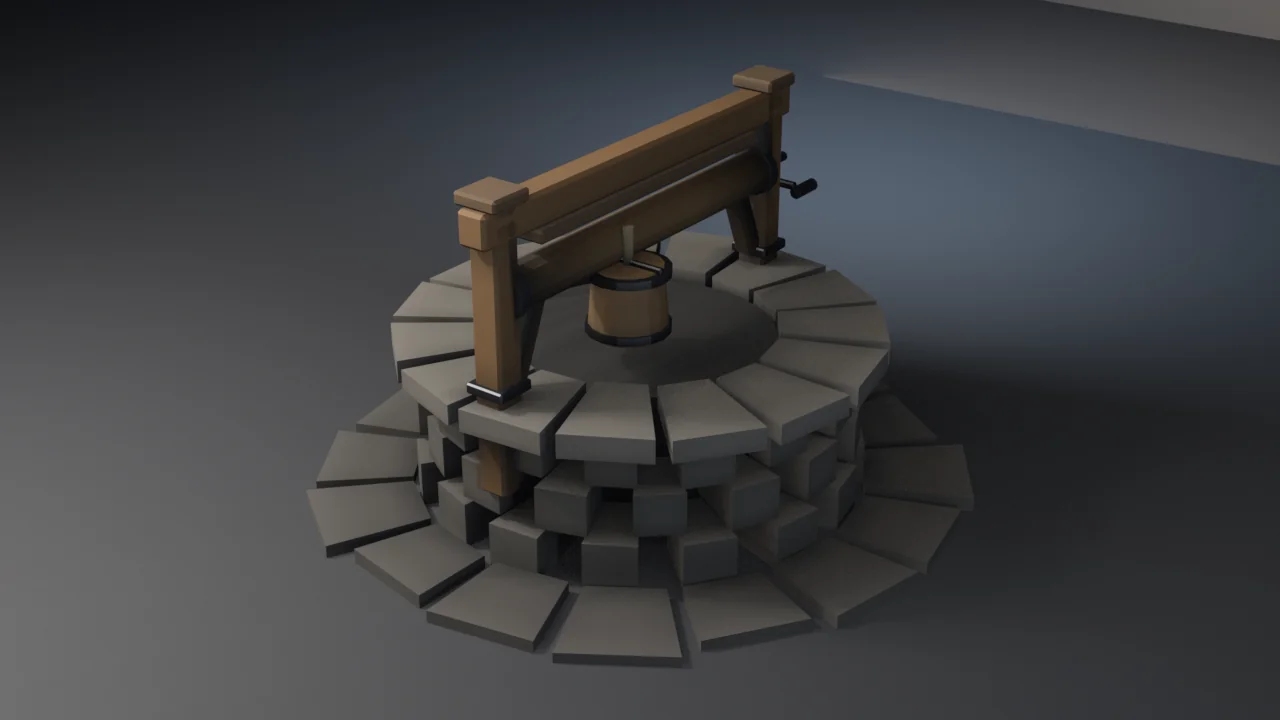
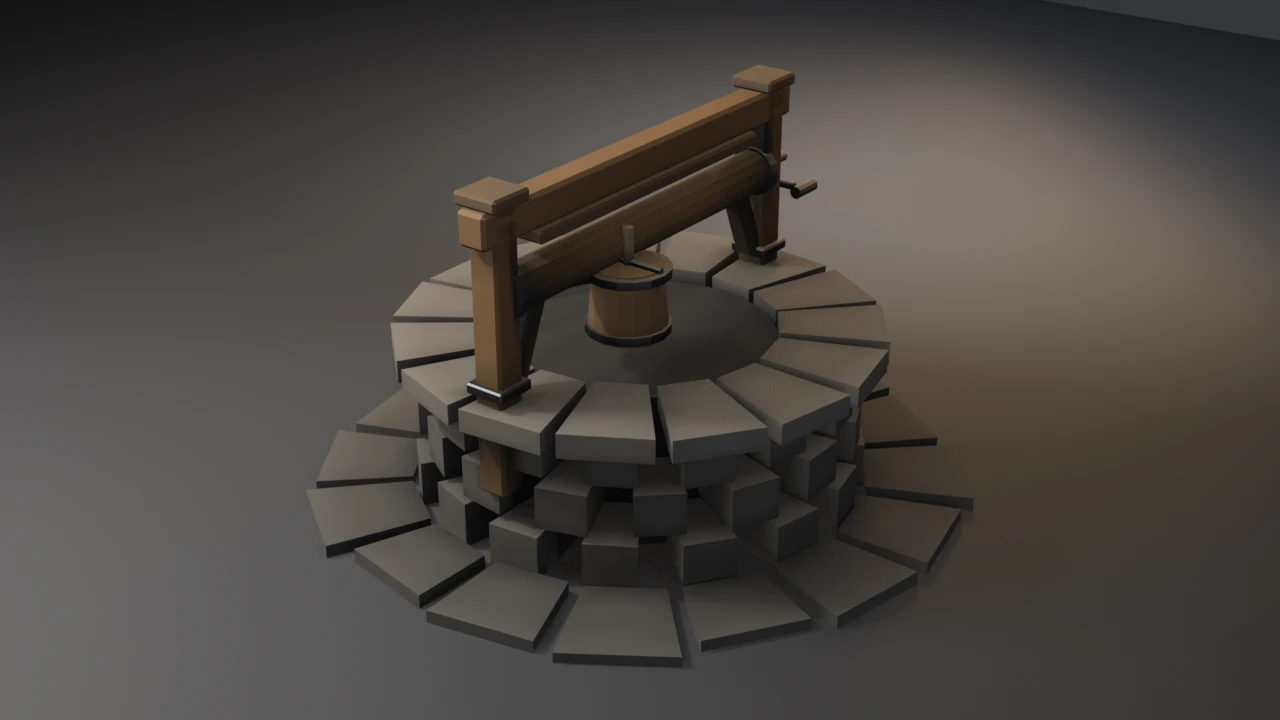
fix(examples): warm the vertex-color-ao stage and aim its wedge
Render path only. The blue fill and rim lit the stage cold and the wedge
grazed floor the camera barely saw; the rig is now near neutral with the
wedge pooled behind the well. Bake, checks and exit codes unchanged.

Changed region(s): [[0.4062, 0.0917, 1.0, 0.7944], [0.9062, 0.0917, 1.0, 0.2444], [0.8125, 0.0, 1.0, 0.0611]]

diff --git a/docs/gallery/vertex-color-ao/index.html b/docs/gallery/vertex-color-ao/index.html
@@ -292,6 +292,7 @@
 <p>The exit-7 probe earned its keep twice: the depsgraph check originally compared <code>zip(src.data, eva.data)</code>, which stops at the shorter sequence, so a resampled attribute reported a clean <strong>0.0</strong> deviation and the probe exited <strong>0</strong>. The length guard was added because the falsification pass failed to fail.</p>
 <p><strong>Version witness:</strong> check output is byte-identical on Blender 4.5.11 LTS and 5.1.2 — same 6966 vertices, same closed-form errors to every printed digit, same storage deviations.</p>
 <p><strong>Render as proof:</strong> the well on the dark stage, lit only by the studio rig, with the baked AO multiplied into base colour — the masonry joints, the shaft mouth, the coping undersides and the apron contact all darken from the attribute, not from the lights. The falsification variant (<code>--falsify</code>) writes the same bake <strong>inverted</strong>: sky-facing coping and apron tops go grimy while the recesses and post bases glow, occlusion turned inside out.</p>
+<p>The studio rig is presentation only. Its fill and rim used to be strongly blue, which lit the whole stage cold (stage luma 0.243, warmth +0.01 against the calibration set). Its wedge grazed floor the camera barely saw and left a hard-edged patch on the back wall. Both are now near neutral, and the wedge pools warm light on the floor just behind the well from the camera&#x27;s side: luma 0.274, warmth +0.023. The bake, the checks and the exit codes are unchanged.</p>
 <h2>Run</h2>
 <pre><code>blender --background --python vertex_color_ao.py --
 blender --background --python vertex_color_ao.py -- --output well.png
@@ -400,6 +401,8 @@ FLOAT_TOL = <span class="n">1e-6</span>           <span class="c"># FLOAT_COLOR 
 BYTE_MODEL_TOL = <span class="n">1e-6</span>      <span class="c"># agreement with the independent sRGB model</span>
 SPREAD_MIN = <span class="n">0.25</span>          <span class="c"># the asset must actually use its AO range</span>
 EXPECT_PARTS = <span class="n">11</span>          <span class="c"># asserted before any per-part loop runs (check 0)</span>
+WEDGE_AT = (-<span class="n">0.9</span>, <span class="n">3.4</span>, <span class="n">2.0</span>)    <span class="c"># render only: warm wedge position</span>
+WEDGE_POOL = (-<span class="n">1.8</span>, <span class="n">2.2</span>, <span class="n">0.0</span>)  <span class="c"># render only: floor point the wedge pools on</span>
 
 
 <span class="k">def</span> eevee_engine_id():
@@ -1149,11 +1152,20 @@ _mat_cache = {}
         ob.rotation_euler = tuple(math.radians(a) <span class="k">for</span> a <span class="k">in</span> rot)
         sc.collection.objects.link(ob)
 
-    <span class="c"># VISUAL-STYLE Layer 2 rig, energies scaled to a ~1.9 m subject</span>
-    light(<span class="s">&quot;Key&quot;</span>, (-<span class="n">2.3</span>, -<span class="n">2.4</span>, <span class="n">3.6</span>), <span class="n">430.0</span>, <span class="n">3.0</span>, (<span class="n">1.0</span>, <span class="n">0.96</span>, <span class="n">0.9</span>), (<span class="n">40</span>, <span class="n">0</span>, -<span class="n">42</span>))
-    light(<span class="s">&quot;Fill&quot;</span>, (<span class="n">3.0</span>, -<span class="n">2.0</span>, <span class="n">1.2</span>), <span class="n">78.0</span>, <span class="n">5.0</span>, (<span class="n">0.75</span>, <span class="n">0.85</span>, <span class="n">1.0</span>), (<span class="n">70</span>, <span class="n">0</span>, <span class="n">54</span>))
-    light(<span class="s">&quot;Rim&quot;</span>, (-<span class="n">0.9</span>, <span class="n">3.0</span>, <span class="n">2.6</span>), <span class="n">240.0</span>, <span class="n">2.0</span>, (<span class="n">0.6</span>, <span class="n">0.78</span>, <span class="n">1.0</span>), (-<span class="n">54</span>, <span class="n">0</span>, <span class="n">196</span>))
-    light(<span class="s">&quot;Wedge&quot;</span>, (<span class="n">0.3</span>, <span class="n">5.0</span>, <span class="n">0.7</span>), <span class="n">300.0</span>, <span class="n">5.0</span>, (<span class="n">1.0</span>, <span class="n">0.76</span>, <span class="n">0.5</span>), (-<span class="n">86</span>, <span class="n">0</span>, <span class="n">182</span>))
+    <span class="c"># VISUAL-STYLE Layer 2 rig, energies scaled to a ~1.9 m subject. The fill</span>
+    <span class="c"># and rim used to be strongly blue and lit the whole stage cold (stage</span>
+    <span class="c"># luma 0.243, warmth +0.01 against the calibration set); they are now</span>
+    <span class="c"># near neutral and weaker, and the warm wedge carries the back wall.</span>
+    light(<span class="s">&quot;Key&quot;</span>, (-<span class="n">2.3</span>, -<span class="n">2.4</span>, <span class="n">3.6</span>), <span class="n">400.0</span>, <span class="n">3.0</span>, (<span class="n">1.0</span>, <span class="n">0.95</span>, <span class="n">0.88</span>), (<span class="n">40</span>, <span class="n">0</span>, -<span class="n">42</span>))
+    light(<span class="s">&quot;Fill&quot;</span>, (<span class="n">3.0</span>, -<span class="n">2.0</span>, <span class="n">1.2</span>), <span class="n">45.0</span>, <span class="n">5.0</span>, (<span class="n">0.88</span>, <span class="n">0.92</span>, <span class="n">1.0</span>), (<span class="n">70</span>, <span class="n">0</span>, <span class="n">54</span>))
+    light(<span class="s">&quot;Rim&quot;</span>, (-<span class="n">0.9</span>, <span class="n">3.0</span>, <span class="n">2.6</span>), <span class="n">170.0</span>, <span class="n">2.0</span>, (<span class="n">0.85</span>, <span class="n">0.88</span>, <span class="n">0.95</span>), (-<span class="n">54</span>, <span class="n">0</span>, <span class="n">196</span>))
+    light(<span class="s">&quot;Wedge&quot;</span>, (<span class="n">0.3</span>, <span class="n">5.0</span>, <span class="n">0.7</span>), <span class="n">150.0</span>, <span class="n">4.0</span>, (<span class="n">1.0</span>, <span class="n">0.70</span>, <span class="n">0.40</span>), (-<span class="n">86</span>, <span class="n">0</span>, <span class="n">182</span>))
+    <span class="c"># The wedge pool lands on the floor behind the well as the hero camera</span>
+    <span class="c"># sees it; at its old grazing angle it lit floor the camera barely saw.</span>
+    wedge = sc.objects[<span class="s">&quot;Wedge&quot;</span>]
+    wedge.location = WEDGE_AT
+    wedge.rotation_euler = (Vector(WEDGE_POOL) - Vector(WEDGE_AT)).to_track_quat(
+        <span class="s">&quot;-Z&quot;</span>, <span class="s">&quot;Y&quot;</span>).to_euler()
     <span class="k">return</span> floor, wall
 
 

diff --git a/examples/vertex-color-ao/vertex_color_ao.py b/examples/vertex-color-ao/vertex_color_ao.py
@@ -90,6 +90,8 @@ FLOAT_TOL = 1e-6           # FLOAT_COLOR round-trip (measured 1.43e-08)
 BYTE_MODEL_TOL = 1e-6      # agreement with the independent sRGB model
 SPREAD_MIN = 0.25          # the asset must actually use its AO range
 EXPECT_PARTS = 11          # asserted before any per-part loop runs (check 0)
+WEDGE_AT = (-0.9, 3.4, 2.0)    # render only: warm wedge position
+WEDGE_POOL = (-1.8, 2.2, 0.0)  # render only: floor point the wedge pools on
 
 
 def eevee_engine_id():
@@ -839,11 +841,20 @@ def build_studio(sc):
         ob.rotation_euler = tuple(math.radians(a) for a in rot)
         sc.collection.objects.link(ob)
 
-    # VISUAL-STYLE Layer 2 rig, energies scaled to a ~1.9 m subject
-    light("Key", (-2.3, -2.4, 3.6), 430.0, 3.0, (1.0, 0.96, 0.9), (40, 0, -42))
-    light("Fill", (3.0, -2.0, 1.2), 78.0, 5.0, (0.75, 0.85, 1.0), (70, 0, 54))
-    light("Rim", (-0.9, 3.0, 2.6), 240.0, 2.0, (0.6, 0.78, 1.0), (-54, 0, 196))
-    light("Wedge", (0.3, 5.0, 0.7), 300.0, 5.0, (1.0, 0.76, 0.5), (-86, 0, 182))
+    # VISUAL-STYLE Layer 2 rig, energies scaled to a ~1.9 m subject. The fill
+    # and rim used to be strongly blue and lit the whole stage cold (stage
+    # luma 0.243, warmth +0.01 against the calibration set); they are now
+    # near neutral and weaker, and the warm wedge carries the back wall.
+    light("Key", (-2.3, -2.4, 3.6), 400.0, 3.0, (1.0, 0.95, 0.88), (40, 0, -42))
+    light("Fill", (3.0, -2.0, 1.2), 45.0, 5.0, (0.88, 0.92, 1.0), (70, 0, 54))
+    light("Rim", (-0.9, 3.0, 2.6), 170.0, 2.0, (0.85, 0.88, 0.95), (-54, 0, 196))
+    light("Wedge", (0.3, 5.0, 0.7), 150.0, 4.0, (1.0, 0.70, 0.40), (-86, 0, 182))
+    # The wedge pool lands on the floor behind the well as the hero camera
+    # sees it; at its old grazing angle it lit floor the camera barely saw.
+    wedge = sc.objects["Wedge"]
+    wedge.location = WEDGE_AT
+    wedge.rotation_euler = (Vector(WEDGE_POOL) - Vector(WEDGE_AT)).to_track_quat(
+        "-Z", "Y").to_euler()
     return floor, wall
 
 

diff --git a/examples/vertex-color-ao/README.md b/examples/vertex-color-ao/README.md
@@ -107,6 +107,14 @@ attribute, not from the lights. The falsification variant (`--falsify`) writes
 the same bake **inverted**: sky-facing coping and apron tops go grimy while the
 recesses and post bases glow, occlusion turned inside out.
 
+The studio rig is presentation only. Its fill and rim used to be strongly
+blue, which lit the whole stage cold (stage luma 0.243, warmth +0.01 against
+the calibration set). Its wedge grazed floor the camera barely saw and left a
+hard-edged patch on the back wall. Both are now near neutral, and the wedge
+pools warm light on the floor just behind the well from the camera's side:
+luma 0.274, warmth +0.023. The bake, the checks and the exit codes are
+unchanged.
+
 ## Run
 
 ```bash
